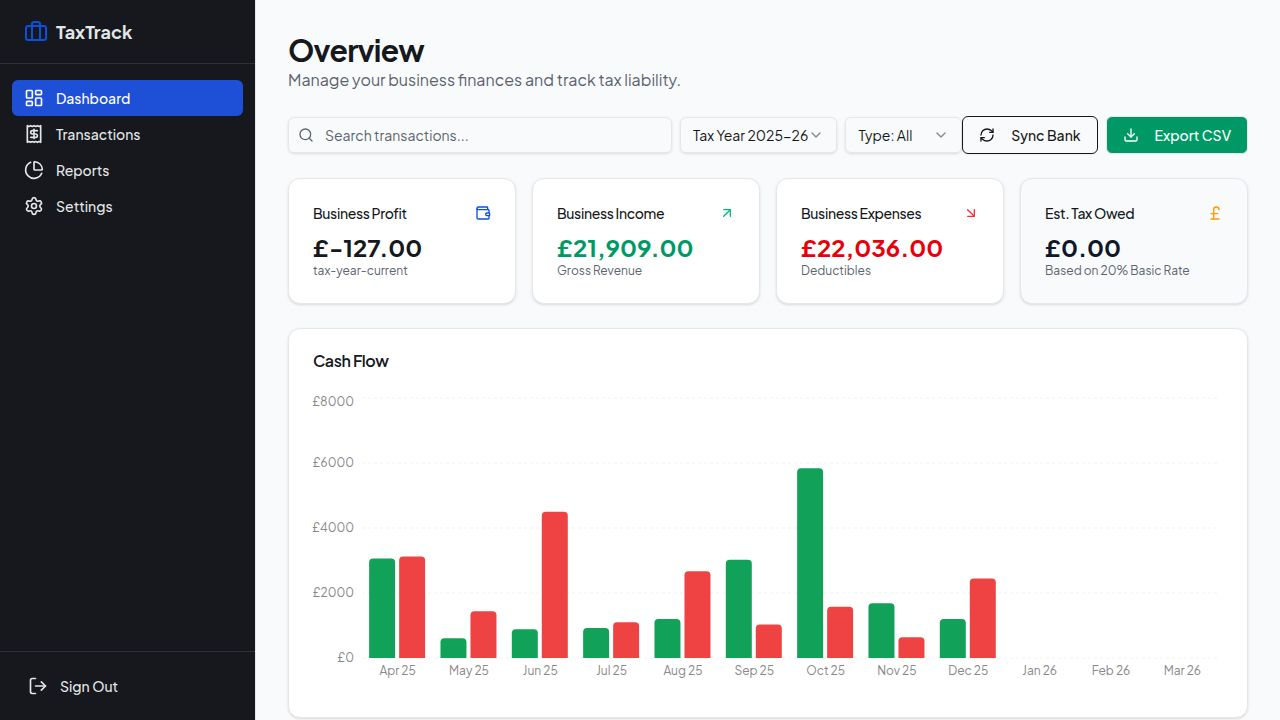
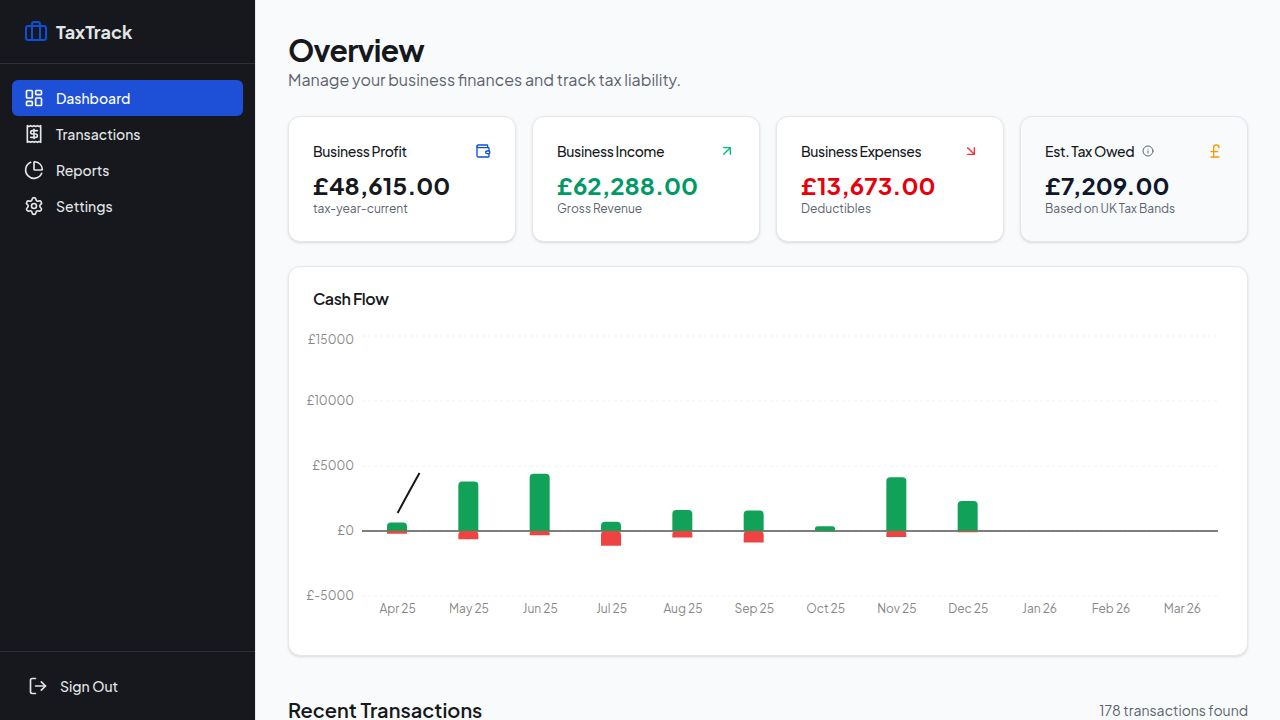
Update transaction chart to show income, expenses, and profit
Modify the transaction chart component to use a ComposedChart, displaying income as positive bars, expenses as negative bars, and a line for net profit, with a reference line at zero.

Replit-Commit-Author: Agent
Replit-Commit-Session-Id: 7c9cbdef-f951-42f1-8e87-5ea3f0d417f8
Replit-Commit-Checkpoint-Type: full_checkpoint
Replit-Commit-Event-Id: 9841480c-0502-41e0-9dca-2001bb862ee3
Replit-Commit-Screenshot-Url: https://storage.googleapis.com/screenshot-production-us-central1/74a6994d-dad0-4559-8ef7-1f8cbc5ddf37/7c9cbdef-f951-42f1-8e87-5ea3f0d417f8/tesNzVh
Replit-Helium-Checkpoint-Created: true

diff --git a/client/src/components/dashboard/TransactionChart.tsx b/client/src/components/dashboard/TransactionChart.tsx
@@ -1,6 +1,6 @@
 import { Card, CardContent, CardHeader, CardTitle } from "@/components/ui/card";
 import { Transaction } from "@/lib/types";
-import { Bar, BarChart, ResponsiveContainer, XAxis, YAxis, Tooltip, CartesianGrid } from "recharts";
+import { ComposedChart, Line, Bar, ResponsiveContainer, XAxis, YAxis, Tooltip, CartesianGrid, ReferenceLine } from "recharts";
 import { format, parseISO, startOfMonth, endOfMonth, eachMonthOfInterval, isSameMonth } from "date-fns";
 
 interface TransactionChartProps {
@@ -44,8 +44,9 @@ export function TransactionChart({ transactions, dateRange }: TransactionChartPr
       <CardContent className="pl-2">
         <div className="h-[300px] w-full">
           <ResponsiveContainer width="100%" height="100%">
-            <BarChart data={data}>
+            <ComposedChart data={data} stackOffset="sign">
               <CartesianGrid strokeDasharray="3 3" vertical={false} className="stroke-muted" />
+              <ReferenceLine y={0} stroke="#000" strokeWidth={1} />
               <XAxis 
                 dataKey="name" 
                 stroke="#888888" 
@@ -64,9 +65,16 @@ export function TransactionChart({ transactions, dateRange }: TransactionChartPr
                 cursor={{ fill: 'transparent' }}
                 contentStyle={{ borderRadius: '8px', border: 'none', boxShadow: '0 4px 6px -1px rgb(0 0 0 / 0.1)' }}
               />
-              <Bar dataKey="Expenses" stackId="a" fill="hsl(var(--chart-2))" radius={[0, 0, 4, 4]} />
-              <Bar dataKey="Income" stackId="a" fill="hsl(var(--chart-1))" radius={[4, 4, 0, 0]} />
-            </BarChart>
+              <Bar dataKey="Income" stackId="stack" fill="hsl(var(--chart-1))" radius={[4, 4, 0, 0]} barSize={20} />
+              <Bar dataKey="Expenses" stackId="stack" fill="hsl(var(--chart-2))" radius={[0, 0, 4, 4]} barSize={20} />
+              <Line 
+                type="monotone" 
+                dataKey="Profit" 
+                stroke="hsl(var(--foreground))" 
+                strokeWidth={2}
+                dot={{ r: 4, fill: "hsl(var(--foreground))", strokeWidth: 0 }}
+              />
+            </ComposedChart>
           </ResponsiveContainer>
         </div>
       </CardContent>
